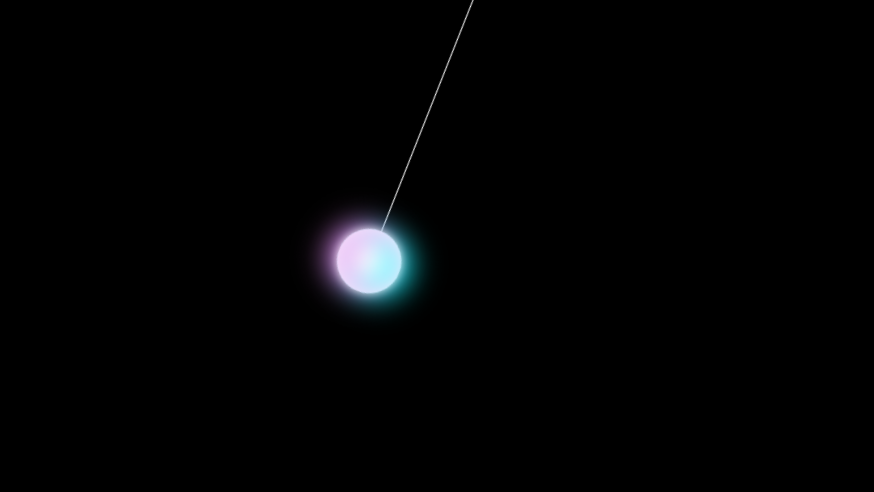
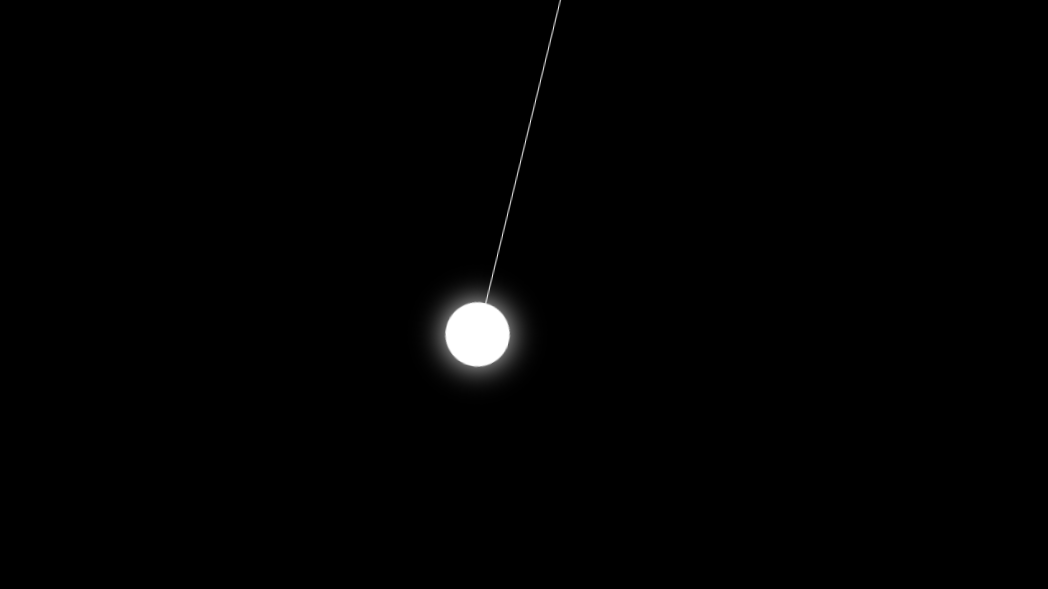
update: pendulum component

diff --git a/components/kaif-ui/ui/pendulum.tsx b/components/kaif-ui/ui/pendulum.tsx
@@ -35,12 +35,12 @@ const Pendulum: React.FC<PendulumProps> = ({ className }) => {
           <motion.div
             className="w-10 h-10 sm:w-12 sm:h-12 md:w-14 md:h-14 lg:w-16 lg:h-16 rounded-full bg-white"
             style={{
-              boxShadow:
-                "inset 0 0 60px white, inset 20px 0 60px violet, inset -20px 0 60px rgb(0, 255, 255), 0 0 20px white, -20px 0 60px violet, 20px 0 60px rgb(0, 255, 255)",
+              boxShadow: "inset 0 0 80px white, 0 0 30px white", // Increased glow effect
             }}
             animate={{
               boxShadow: [
-                "inset 0 0 30px white, inset 10px 0 30px violet, inset -10px 0 30px rgb(0, 255, 255), 0 0 10px white, -10px 0 30px violet, 10px 0 30px rgb(0, 255, 255)",
+                "inset 0 0 50px white, 0 0 20px white", // Increased animation glow
+                "inset 0 0 80px white, 0 0 30px white", // Transitioning to a stronger glow
               ],
             }}
             transition={{
